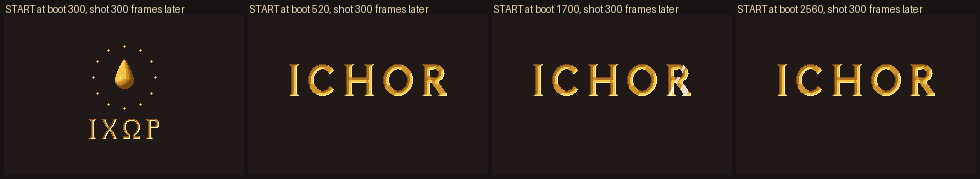
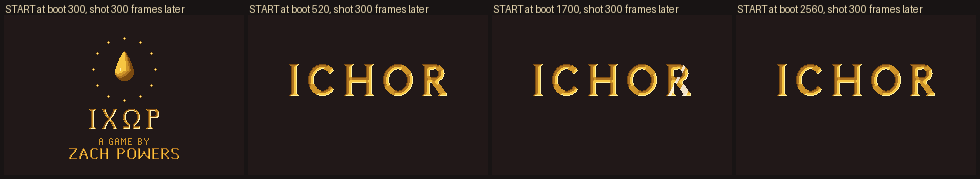
feat(art): credit the game to Zach Powers on the studio card
The user asked for the card to say who made the game. "A GAME BY ZACH
POWERS" gilds in under ΙΧΩΡ once the mark is lit. It uses the title's
pairing, a serifed mark over smaller two-stem gold capitals, and is on screen
about three and a half seconds, two and a half of them at full gold. The
extra hold comes out of the black before Clotho, so every frieze and loom cue
stays on its bar line and MUS_INTRO needs no recut. INTRO.md's timing sheet
and stills follow.

Changed region(s): [[0.0612, 0.5866, 0.1837, 0.8939], [0.0918, 0.2793, 0.1531, 0.5028]]

diff --git a/tools/ichor/art/intro_cards.py b/tools/ichor/art/intro_cards.py
@@ -172,15 +172,52 @@ STUDIO_PAL = [
     L.GOLD_MID,     # 10 letters: m
     L.GOLD_LIT,     # 11 letters: l
     L.GOLD_GLINT,   # 12 letters: g
+    L.GOLD_SHADOW,  # 13 credit: shadow wall
+    L.GOLD_LIT,     # 14 credit: lit wall
+    L.GOLD_MID,     # 15 credit: "A GAME BY"
 ]
 STUDIO_DROP = (1, 6)      # palette ranges [a, b) intro.c fades separately
 STUDIO_RING = (6, 8)
 STUDIO_LETTERS = (8, 13)
+STUDIO_CREDIT = (13, 16)
 
-MARK_CX, MARK_CY = 120, 62   # ring center (screen)
+MARK_CX, MARK_CY = 120, 54   # ring center (screen)
 RING_R = 31
-DROP_TOP = 44                # the big drop: tip row
-LETTERS_Y = 104
+DROP_TOP = 36                # the big drop: tip row
+LETTERS_Y = 94
+CREDIT_BY_Y = 123            # "A GAME BY", 7 px plain capitals
+CREDIT_NAME_Y = 133          # "ZACH POWERS", 11 px gilded capitals
+
+# The credit's name, 11 px capitals with 2 px stems: the title's POKEMON
+# banner style (title_lettering.POKEMON) a size up, cut with the same
+# shadow-left, lit-right V (shade2) so it pairs with ΙΧΩΡ as POKEMON does with
+# ICHOR on the title.
+CREDIT11 = {
+    "Z": ["########", "......##", ".....##.", ".....##.", "....##..", "...##...", "..##....",
+          ".##.....", ".##.....", "##......", "########"],
+    "A": ["....#....", "...###...", "...###...", "..##.##..", "..##.##..", ".##...##.", ".#######.",
+          ".##...##.", "##.....##", "##.....##", "##.....##"],
+    "C": ["..#####.", ".##...##", "##......", "##......", "##......", "##......", "##......",
+          "##......", "##......", ".##...##", "..#####."],
+    "H": ["##....##"] * 5 + ["########"] + ["##....##"] * 5,
+    "P": ["######..", "##...##.", "##....##", "##....##", "##...##.", "######..", "##......",
+          "##......", "##......", "##......", "##......"],
+    "O": ["..#####..", ".##...##.", "##.....##", "##.....##", "##.....##", "##.....##", "##.....##",
+          "##.....##", "##.....##", ".##...##.", "..#####.."],
+    "W": ["##........##", "##........##", "##........##", "##...##...##", "##...##...##",
+          "##..####..##", "##..#..#..##", "##.##..##.##", "####....####", "###......###",
+          "##........##"],
+    "E": ["#######", "##.....", "##.....", "##.....", "##.....", "######.", "##.....", "##.....",
+          "##.....", "##.....", "#######"],
+    "R": ["######..", "##...##.", "##....##", "##....##", "##...##.", "######..", "##.##...",
+          "##..##..", "##...##.", "##....##", "##....##"],
+    "S": [".######.", "##....##", "##......", "##......", ".##.....", "..####..", ".....##.",
+          "......##", "......##", "##....##", ".######."],
+    " ": ["....."] * 11,
+}
+CREDIT_KEY = {".": 0, "s": 13, "l": 14}
+CREDIT_NAME = "ZACH POWERS"
+CREDIT_BY = "A GAME BY"
 
 # Greek capitals for ΙΧΩΡ, 20 px, 3 px strokes, with wedge apices.
 GREEK20 = {
@@ -347,6 +384,14 @@ def build_studio():
         for dx, ch in enumerate(row):
             if ch != ".":
                 img[LETTERS_Y + dy, x0 + dx] = LETTER_KEY[ch]
+    # the credit: "A GAME BY" over the name, in the gold of the mark
+    center_text(img, L.set_text7(CREDIT_BY, gap=2), CREDIT_BY_Y - 2, 15)
+    name = L.shade2(L.set_rows(CREDIT11, CREDIT_NAME, 2, 11))
+    x0 = W // 2 - len(name[0]) // 2
+    for dy, row in enumerate(name):
+        for dx, ch in enumerate(row):
+            if ch != ".":
+                img[CREDIT_NAME_Y + dy, x0 + dx] = CREDIT_KEY[ch]
     return img
 
 

diff --git a/src/intro.c b/src/intro.c
@@ -33,7 +33,7 @@
     Scene 0. The copyright card (graphics/intro/copyright.png), then, with
              EXPANSION_INTRO, the "powered by" card (src/expansion_intro.c).
     Scene 1. The studio mark: a drop of ichor falls through the dark and blooms
-             into ΙΧΩΡ, ringed by the Twelve.
+             into ΙΧΩΡ, ringed by the Twelve, over "A GAME BY ZACH POWERS".
     Scene 2. The frieze: Clotho spins, and her thread runs along a black-figure
              frieze of Aethos as the pot turns: the olive grove of Elaia, where
              the golden thread rises unspun; the sea, the trireme and the ketos;
@@ -248,8 +248,9 @@ void PanFadeAndZoomScreen(u16 screenX, u16 screenY, u16 zoom, u16 alpha)
 #define T_DROP_IMPACT     112   // it lands, and the mark's drop flares
 #define T_RING            124   // the ripple reaches the ring of the Twelve
 #define T_LETTERS         140   // ΙΧΩΡ gilds in
-#define T_STUDIO_OUT      300   // fade to black
-#define T_FRIEZE_LOAD     372
+#define T_CREDIT          184   // "A GAME BY ZACH POWERS" fades in beneath, and holds
+#define T_STUDIO_OUT      364   // fade to black
+#define T_FRIEZE_LOAD     398
 // Scene 2: the frieze
 #define T_CLOTHO          410   // fade in on Clotho at her spindle (bar 5)
 #define T_THREAD_GROW     466   // her thread runs out to the right
@@ -564,11 +565,13 @@ static void ResetIntroSprites(void)
 // Scene 1: the studio mark
 // ---------------------------------------------------------------------------
 #define MARK_CX 120
-#define MARK_CY 62
-// studio_mark.pal: the drop is colors 1-5, the ring of the Twelve 6-7, the letters 8-12
+#define MARK_CY 54
+// studio_mark.pal: the drop is colors 1-5, the ring of the Twelve 6-7, the letters 8-12,
+// the credit 13-15
 #define MARK_DROP    1, 5
 #define MARK_RING    6, 2
 #define MARK_LETTERS 8, 5
+#define MARK_CREDIT  13, 3
 
 static void Studio_Load(void)
 {
@@ -605,8 +608,8 @@ static void Studio_Update(s32 t)
     else if (t >= T_DROP_FALL && t < T_DROP_IMPACT)
     {
         s32 dt = t - T_DROP_FALL;
-        // 0.07 px/frame^2 brings it from the top to the mark in 26 frames
-        y = 18 + (dt * dt * 18) / 256;
+        // 0.0625 px/frame^2 brings it from the top to the mark in 26 frames
+        y = 18 + (dt * dt * 16) / 256;
         ShowSprite(SPR_DROP, MARK_CX, y, 4, 8, TRUE);
     }
     else
@@ -639,6 +642,10 @@ static void Studio_Update(s32 t)
         BlendRange(BG_PLTT_ID(0) + 12, 1, coeff, RGB(31, 31, 28));
         BlendRange(BG_PLTT_ID(0) + 5, 1, coeff, RGB(31, 31, 28));
     }
+
+    // Then the credit, unhurried, held long enough to read before the frieze.
+    coeff = Lerp(16, 0, t, T_CREDIT, T_CREDIT + 36);
+    BlendRange(BG_PLTT_ID(0) + MARK_CREDIT, coeff, INK_COLOR);
 
     FadeAll(Lerp(0, 16, t, T_STUDIO_OUT, T_STUDIO_OUT + 32), RGB_BLACK);
 }

diff --git a/tools/ichor/art/intro_capture.py b/tools/ichor/art/intro_capture.py
@@ -31,7 +31,7 @@ W, H = 240, 160
 KEYS = [
     (40, "3_studio_bead"),
     (100, "4_studio_fall"),
-    (200, "5_studio_mark"),
+    (330, "5_studio_credit"),
     (560, "6_clotho"),
     (1060, "7_grove"),
     (1360, "8_sea"),

diff --git a/design/phase1/INTRO.md b/design/phase1/INTRO.md
@@ -6,7 +6,7 @@ The sequence:
 
 1. An honest **copyright card**.
 2. The upstream **"powered by" card**, restyled.
-3. The **studio mark**: a drop of ichor falls through the dark and blooms into ΙΧΩΡ.
+3. The **studio mark**: a drop of ichor falls through the dark and blooms into ΙΧΩΡ, and the credit "A GAME BY ZACH POWERS" gilds in beneath it.
 4. The **cinematic**. Clotho spins, and her thread runs along a black-figure frieze of Aethos as the pot turns under the light. The camera follows it to the Fates' loom. Lachesis measures the warp and Atropos cuts it, until the shears reach the golden thread and stop.
 5. A white cut to the **amphora title**, where the three Fates stand painted.
 
@@ -26,7 +26,7 @@ At the loom, Lachesis ties a red knot on every thread to mark where it will be c
 |---|---|---|---|
 | 1 | Copyright | `intro_1_copyright.png` | Black gloss between two meander rules. The first line reads "POKÉMON © NINTENDO / CREATURES / GAME FREAK". A small gold drop sits under it, then "ICHOR IS A FAN-MADE GAME, NOT AFFILIATED WITH THEM." It fades in from the BIOS white, as Emerald's card did. |
 | 2 | Powered by | `intro_2_powered_by.png` | "POWERED BY" over a gilded V-cut **PRET × RHH**, captioned POKEEMERALD and EXPANSION, between meander rules. The upstream egg and Porygon sprites are left out of the pottery look. |
-| 3 | Studio mark | `intro_3_studio_bead.png` to `intro_5_studio_mark.png` | A bead of ichor gathers at the top of the dark, swells, lets go and falls. On landing, the mark's drop flares white and cools to gold. A ripple spreads to a ring of **twelve gold dots** (the Twelve), and **ΙΧΩΡ** (*ichor* in Greek capitals) gilds in below. |
+| 3 | Studio mark | `intro_3_studio_bead.png` to `intro_5_studio_credit.png` | A bead of ichor gathers at the top of the dark, swells, lets go and falls. On landing, the mark's drop flares white and cools to gold. A ripple spreads to a ring of **twelve gold dots** (the Twelve), and **ΙΧΩΡ** (*ichor* in Greek capitals) gilds in below. Then the credit fades in under it: small gold "A GAME BY" over **ZACH POWERS** in 11 px two-stem gilded capitals. The pairing is the title's own, a serifed mark over smaller sans gold capitals, as ICHOR sits over POKÉMON. |
 | 4 | Clotho | `intro_6_clotho.png` | The frieze fades in on Clotho, the title's own figure, beside her wool basket and labeled ΚΛΩΘΩ. Her drop spindle turns, and the white thread runs from her hand to the edge of the frame. |
 | 5 | The grove of Elaia | `intro_7_grove.png` | The pot begins to turn. Three gnarled olives stand here, with Athena's owl (**Noctowl**) on a bough and two grazing **Mareep** (the Golden Fleece's flock). The golden thread rises from the third olive's roots, a spark running ahead of it. |
 | 6 | The sea | `intro_8_sea.png` | A trireme sails under a white sail, with its painted eye and its ram. **Finizen** leap around it, as the dolphins do on Exekias's cup, and they dive behind the painted waves. **Gyarados** rears from the waves as the *ketos*, the sea serpent of Greek vases. Labeled ΘΑΛΑΣΣΑ. |
@@ -58,13 +58,14 @@ The **intro clock** `t` counts frames from the studio card. It is `gIntroFrameCo
 
 | t | Seconds | Bar.beat | Length | Cue |
 |---|---|---|---|---|
-| 0 | 0.00 | 1.1 | 410 | **Studio card.** `MUS_INTRO` starts. Darkness. |
+| 0 | 0.00 | 1.1 | 396 | **Studio card.** `MUS_INTRO` starts. Darkness. |
 | 24 | 0.40 | 1.1 | 62 | A bead of ichor forms at the top and swells. |
 | 86 | 1.44 | 1.4 | 26 | The drop lets go and falls. |
 | 112 | 1.88 | 2.1 | 24 | It lands. The mark's drop flares and the ripple spreads. |
 | 124 | 2.08 | | 12 | The ring of the Twelve kindles. |
 | 140 | 2.34 | | 40 | ΙΧΩΡ gilds in, then glints and holds. |
-| 300 | 5.02 | | 32 | Fade to black. Black until 410. |
+| 184 | 3.08 | 2.4 | 36 | "A GAME BY ZACH POWERS" fades in beneath it. It is at full gold from 220 to 364 (2.4 s), on screen about 3.5 s in all. |
+| 364 | 6.09 | 4.3 | 32 | Fade to black. Black from 396 to 410 (the frieze loads at 398). |
 | **410** | 6.86 | **5.1** | 307 | **Clotho.** Fade in from black over 32 frames. The spindle turns. |
 | 466 | 7.80 | | 234 | Her white thread runs from her hand to the frame's edge, finishing at 700. |
 | **717** | 12.00 | **8.1** | 1273 | **The pot turns.** The pan eases in over 150 frames and reaches full speed (1.07 px a frame) at 867, under the timpani roll from bar 9 (819). |
@@ -90,6 +91,7 @@ The **intro clock** `t` counts frames from the studio card. It is `gIntroFrameCo
 The current `mus_ichor_intro` (A 10 bars, B 10, C 3; 39.4 s, ends near t = 2355) fits this sheet as cut: section B starts the golden thread and section C starts the loom. **For a recut**, the moments a score can hit are:
 
 - the drop landing at 112
+- the credit at 184
 - Clotho at 410
 - the turn at 717
 - the golden thread at 1024
@@ -108,7 +110,7 @@ The frieze is a pot turning under a fixed light. The clay band and its lighting 
 
 | Scene | Layer | Holds | VRAM |
 |---|---|---|---|
-| Studio | BG0 | `studio_mark.png`: the drop, the ring of twelve, ΙΧΩΡ. 54 tiles, one palette whose three groups `intro.c` lights separately. | char 0, map 31 |
+| Studio | BG0 | `studio_mark.png`: the drop, the ring of twelve, ΙΧΩΡ and the credit. 95 tiles, one palette whose four groups (drop 1-5, ring 6-7, ΙΧΩΡ 8-12, credit 13-15) `intro.c` lights separately. | char 0, map 31 |
 | | OBJ | `studio_drop.png` (6 frames, 16x32), `studio_ripple.png` (6 frames, 64x64) | |
 | Frieze | BG2 | `frieze.png` (633 tiles): the 1464 px painting, streamed into a 64-column map a column at a time as the camera moves | char 0-1, map 24-25 |
 | | BG3 | The lit clay band and the band rules, still (`clay.bin`) | char 2, map 26 |
@@ -167,8 +169,8 @@ tools/ichor/smoke_test.sh
 - **Budgets.** The generator asserts each one:
   - the frieze must fit 1024 BG tiles (it uses 633)
   - each scene's still layers must fit 512 tiles in char block 2 (112 and 75)
-- **Skipping.** Any key during the studio card, the frieze or the loom goes straight to the title. Checked at t 61, 1238 and 2096; the title then plays through to the amphora. A key during the powered-by card skips to the studio card, as upstream does. The smoke test's START at boot frame 500 lands in the studio card (t 41), and its title shot at frame 1000 is unchanged.
-- **ROM.** 26,904,024 B against 26,907,384 B for main at 218ac09a8a, so 3,360 B smaller (80.18% of 32 MB). Emerald's intro art left more room than Ichor's took.
+- **Skipping.** Any key during the studio card, the frieze or the loom goes straight to the title. Checked at t 61, 1238 and 2096; the title then plays through to the amphora. A key during the powered-by card skips to the studio card, as upstream does. The smoke test taps START about 500 frames after power-on, in the studio card (t ≈ 41), so the studio card's longer hold doesn't touch it.
+- **ROM.** The boot sequence came in 3,360 B smaller than Emerald's intro (26,904,024 B against 26,907,384 B at 218ac09a8a). The credit added 512 B (26,935,980 B against 26,935,468 B at f4e4087157, 80.28% of 32 MB).
 
 ## Not done
 
